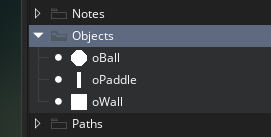
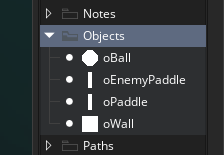
Add keyboard section

Changed region(s): [[0.0625, 0.0, 1.0, 1.0], [0.1875, 0.8467, 0.5312, 0.9927], [0.9688, 0.8175, 1.0, 1.0]]

diff --git a/docs/Pong_YourFirstGame/5_GMLBasics.md b/docs/Pong_YourFirstGame/5_GMLBasics.md
@@ -11,7 +11,7 @@ The the previous section we just had a BIG first, we ran our game for the first 
 
  * We'll change instance positions with code 😎
  * We'll use keyboard input to make the game interactive 😲
-   * and we add local co-op while we're at it 😵
+   * and we add a local versus mode while we're at it 😵
  * We'll make instance interact with each other 🤯
 
 That's all on this page!! Let's do it!
@@ -202,7 +202,7 @@ I recommend you use these as much as you can (especially when you're starting ou
 x /* <- that's the x variable, and this is a comment I'm inserting in my code */ = 3;
 ```
 
-There's also a 3rd type called a JSDoc comment. We actually saw it when we first made our create event (we immediatly cleared it, but you can see it again by creating a new event)
+There's also a 3rd type called a JSDoc comment. We actually saw it when we first made our create event (we immediately cleared it, but you can see it again by creating a new event)
 
 ```
 /// @description I'm describing the create event within a comment :O
@@ -213,6 +213,77 @@ Using `///` signals to game maker that you're using JSDoc format, and Game Maker
 We won't be using the `///` in this course, I still barely use them on my own, but I wanted to include them here for completeness
 
 ## Keyboard Input
+
+Now we're ready to make our game interactive :D, and in particular we're going to make our paddle move up and down in response to the keyboard buttons
+
+We'll use keyboard events for this, there's actually 3 types
+
+ * **Key Pressed**: This event triggers once on the exact from that you press the key
+ * **Key Released**: This event triggers once on the exact from that you release the key
+ * **Key Down**: This event triggers every frame that the key is held down (if I was naming this, I probably would have said **Key Held** instead but yoyogames didn't ask me)
+
+We're going to simulating vertical movement by repeatedly adjusting our y value a little bit at a time. Which event type do you think we should use?
+
+<details>
+<summary> <b>Key Pressed, Key Released, or Key Down?</b> click to see </summary>
+
+<b>Key Down</b>
+
+Since it's repeatedly updating every frame, Key Down is the way to go, Key Pressed/Released would have only activated once
+
+Go ahead and jump into oPaddle and add events for "Key Down > Up" and "Key Down > Down" (super confusing, again I wish I could say "Key Held > Down" :'( )
+
+</details>
+
+For the up event code we want the y value to be moved a little bit up each frame. Here's the code for that
+
+```
+y = y - 4;
+```
+
+This is using the same variable assignment structure but there are a few extra curve balls here
+
+In this case we want to set the new position **relative** to the old position instead of setting it to a specific number, so that's why we need to include y on the right side
+
+This also further highlights the differences with the mathematical equals sign, since the left/right side are clearly unequal. Instead the GML equals sign is actually saying "set the new y value to be the old y value - 4"
+
+When you run this in game, you should see the paddle moving up in response to the up button
+
+Now you can add the following in the Down event to support both directions
+
+```
+y = y + 4;
+```
+
+## Enemy Controls
+
+Now let's practice this and see if you can add similar controls to ``oEnemyPaddle``. Instead of the arrow keys, let's use WASD
+
+<details>
+<summary> <b>Add Enemy Controls</b> click to see </summary>
+
+It ends up being the same code, just with different events
+
+<b>Key Down > W</b>
+
+```
+y = y - 4;
+```
+
+<b>Key Down > S</b>
+
+```
+y = y + 4;
+```
+
+</details>
+
+Great work! Now when we test it, we should be able to move both individually
+
+Feel free to swap out 4 with a different number to find a speed that feels better
+
+<img src="../../assets/images/demo_movement.gif"/>
+
 ## Collision (and functions!)
 ## Randomize ball speed
 ## Reset the ball

diff --git a/docs/Pong_YourFirstGame/4_ResourceTypes.md b/docs/Pong_YourFirstGame/4_ResourceTypes.md
@@ -63,7 +63,7 @@ then we can set the sprite accordingly
 
 ![](../../assets/images/set_object_sprite.gif)
 
-Rinse and repeat for ``oBall`` and ``oWall``
+Rinse and repeat for ``oBall``, ``oWall``, and ``oEnemyPaddle`` (enemy paddle will use the same sprite as ``oPaddle``, and that's ok ;) )
 
 ![](../../assets/images/first_objects.png)
 
